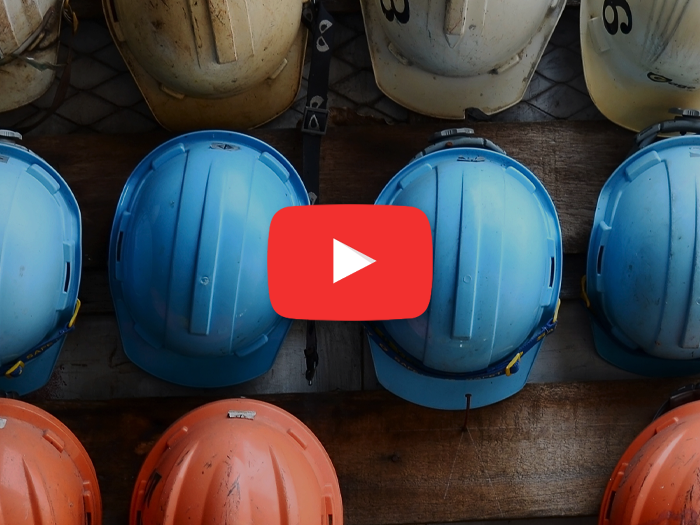
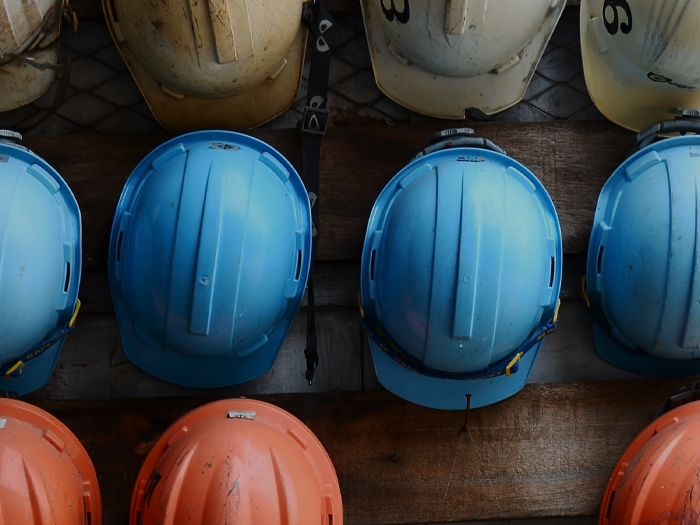
trocou a thumb do video em index.php

Changed region(s): [[0.36, 0.3657, 0.63, 0.6095]]

diff --git a/index.php b/index.php
@@ -103,7 +103,8 @@
             </div>
             <div class="container-youtube">
                 <div class="subcontainer-youtube">
-                    <img src="https://i.ytimg.com/vi/ZbZSe6N_BXs/hqdefault.jpg?sqp=-oaymwEbCKgBEF5IVfKriqkDDggBFQAAiEIYAXABwAEG&rs=AOn4CLArt_w-Sp2d7xVGeW85q7jo8efYrg" class="youtube"alt="">
+                    <!-- PEGA THUMB DO VIDEO ORIGINAL<img src="https://i.ytimg.com/vi/[ID AQUI]/hqdefault.jpg?sqp=-oaymwEbCKgBEF5IVfKriqkDDggBFQAAiEIYAXABwAEG&rs=AOn4CLArt_w-Sp2d7xVGeW85q7jo8efYrg" class="youtube"alt="">-->
+                    <img src="<?php echo get_template_directory_uri();?>/assets/imgs/youtube.png" class='youtube'alt="">
                     <img src="<?php echo get_template_directory_uri();?>/assets/imgs/youtube.svg" class='logo-youtube'>
                 </div>
             </div>
